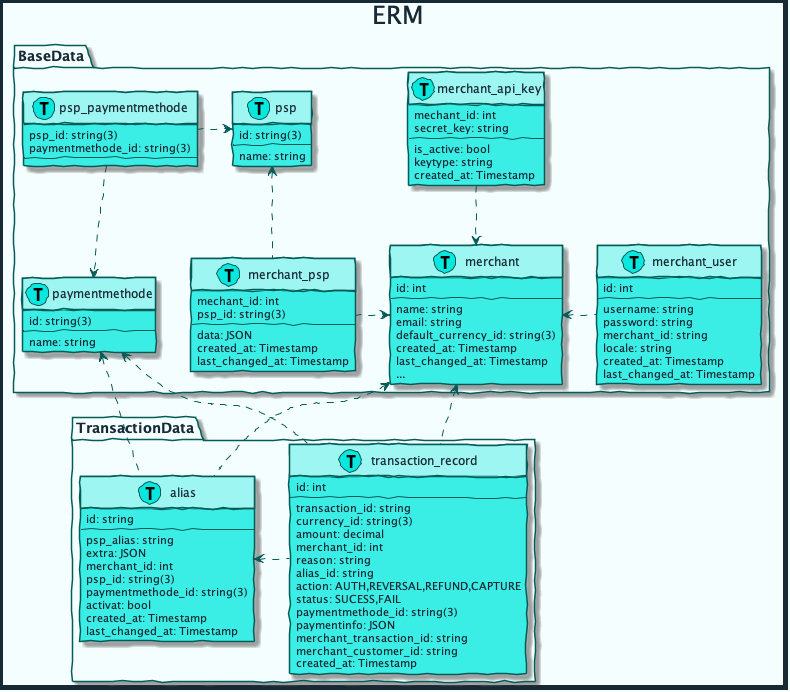
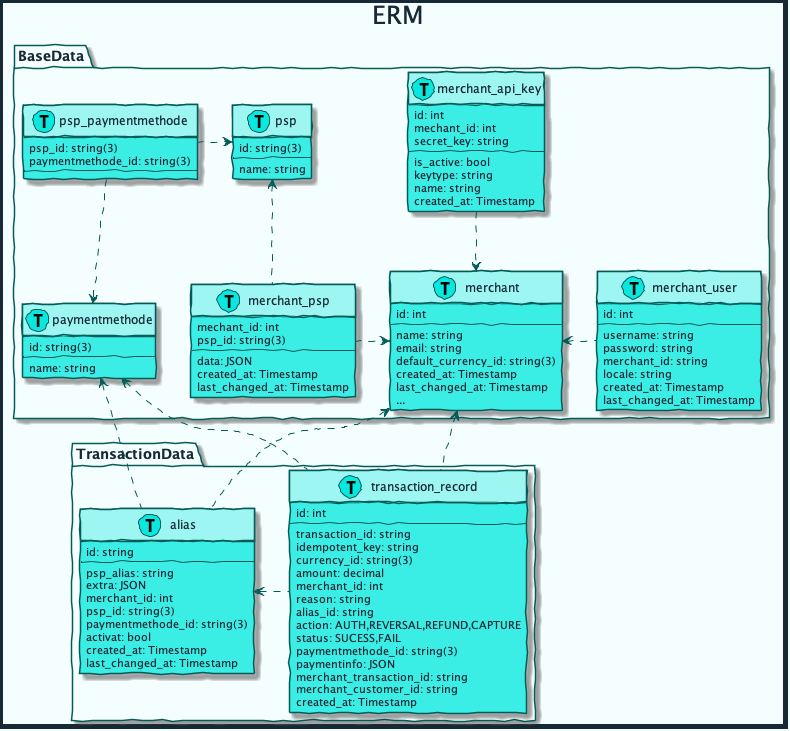
added idempotentKey

diff --git a/API.md b/API.md
@@ -13,31 +13,31 @@
 
 ## transaction (Merchant Backend / Dashboard)
 
-- POST /transaction  
-  Header: secret key  
+- PUT /transaction  
+  Header: secret key, idempotentKey  
   Charge:  
   {aliasId, paymentData: {amount, currency, reason}, purchaseId, customerId}  
   -> {id, amount, currency, status, action}
 
-- POST /transaction/{id}/refund  
-  Header: secret key  
+- PUT /transaction/{id}/refund  
+  Header: secret key, idempotentKey  
   Refund:  
-  { reason }  
+  { reason, amount, currency }  
   -> {id, amount, currency, status, action}
 
-- POST /authorization  
-  Header: secret key  
+- PUT /authorization  
+  Header: secret key, idempotentKey  
   Authorize (just cc):  
   {aliasId, paymentData: {amount, currency, reason}, purchaseId, customerId}  
   -> {id, amount, currency, status, action}
 
-- POST /authorization/{id}/reverse  
+- PUT /authorization/{id}/reverse  
   Header: secret key  
   Reverse:  
   {reason}  
   -> {id, amount, currency, status, action}
 
-- POST /authorization/{id}/capture  
+- PUT /authorization/{id}/capture  
   Header: secret key  
   Capture:  
   {}  
